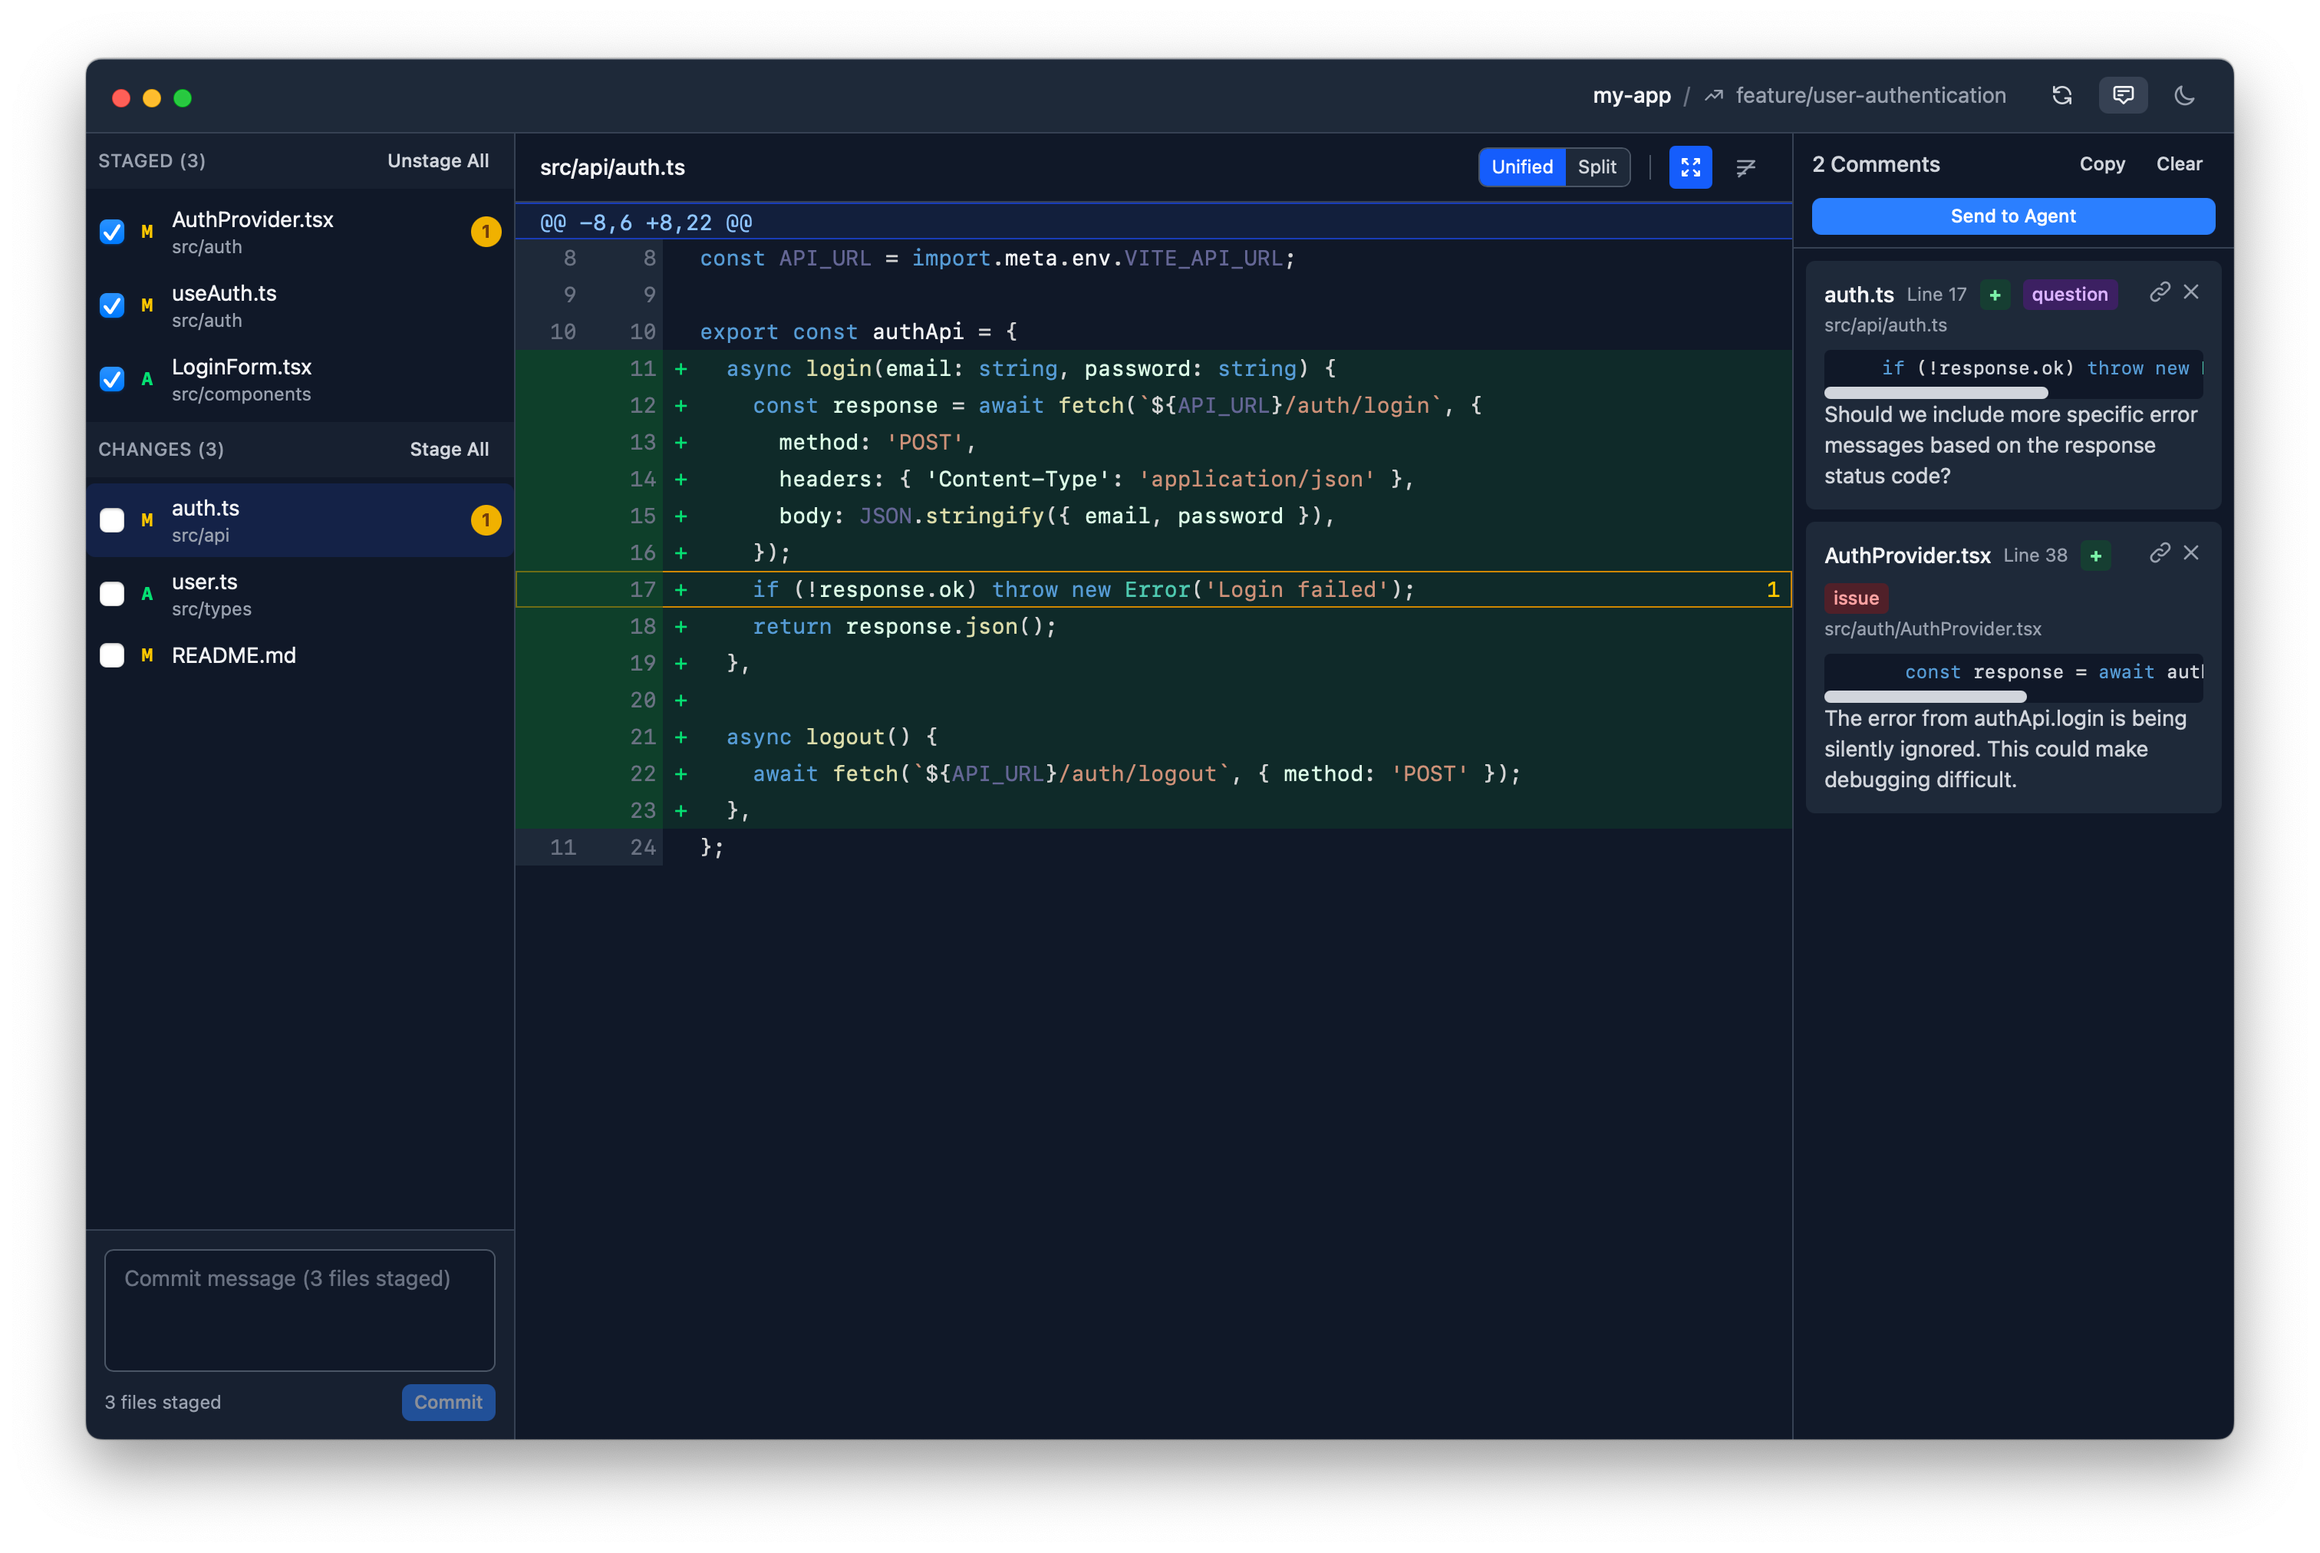
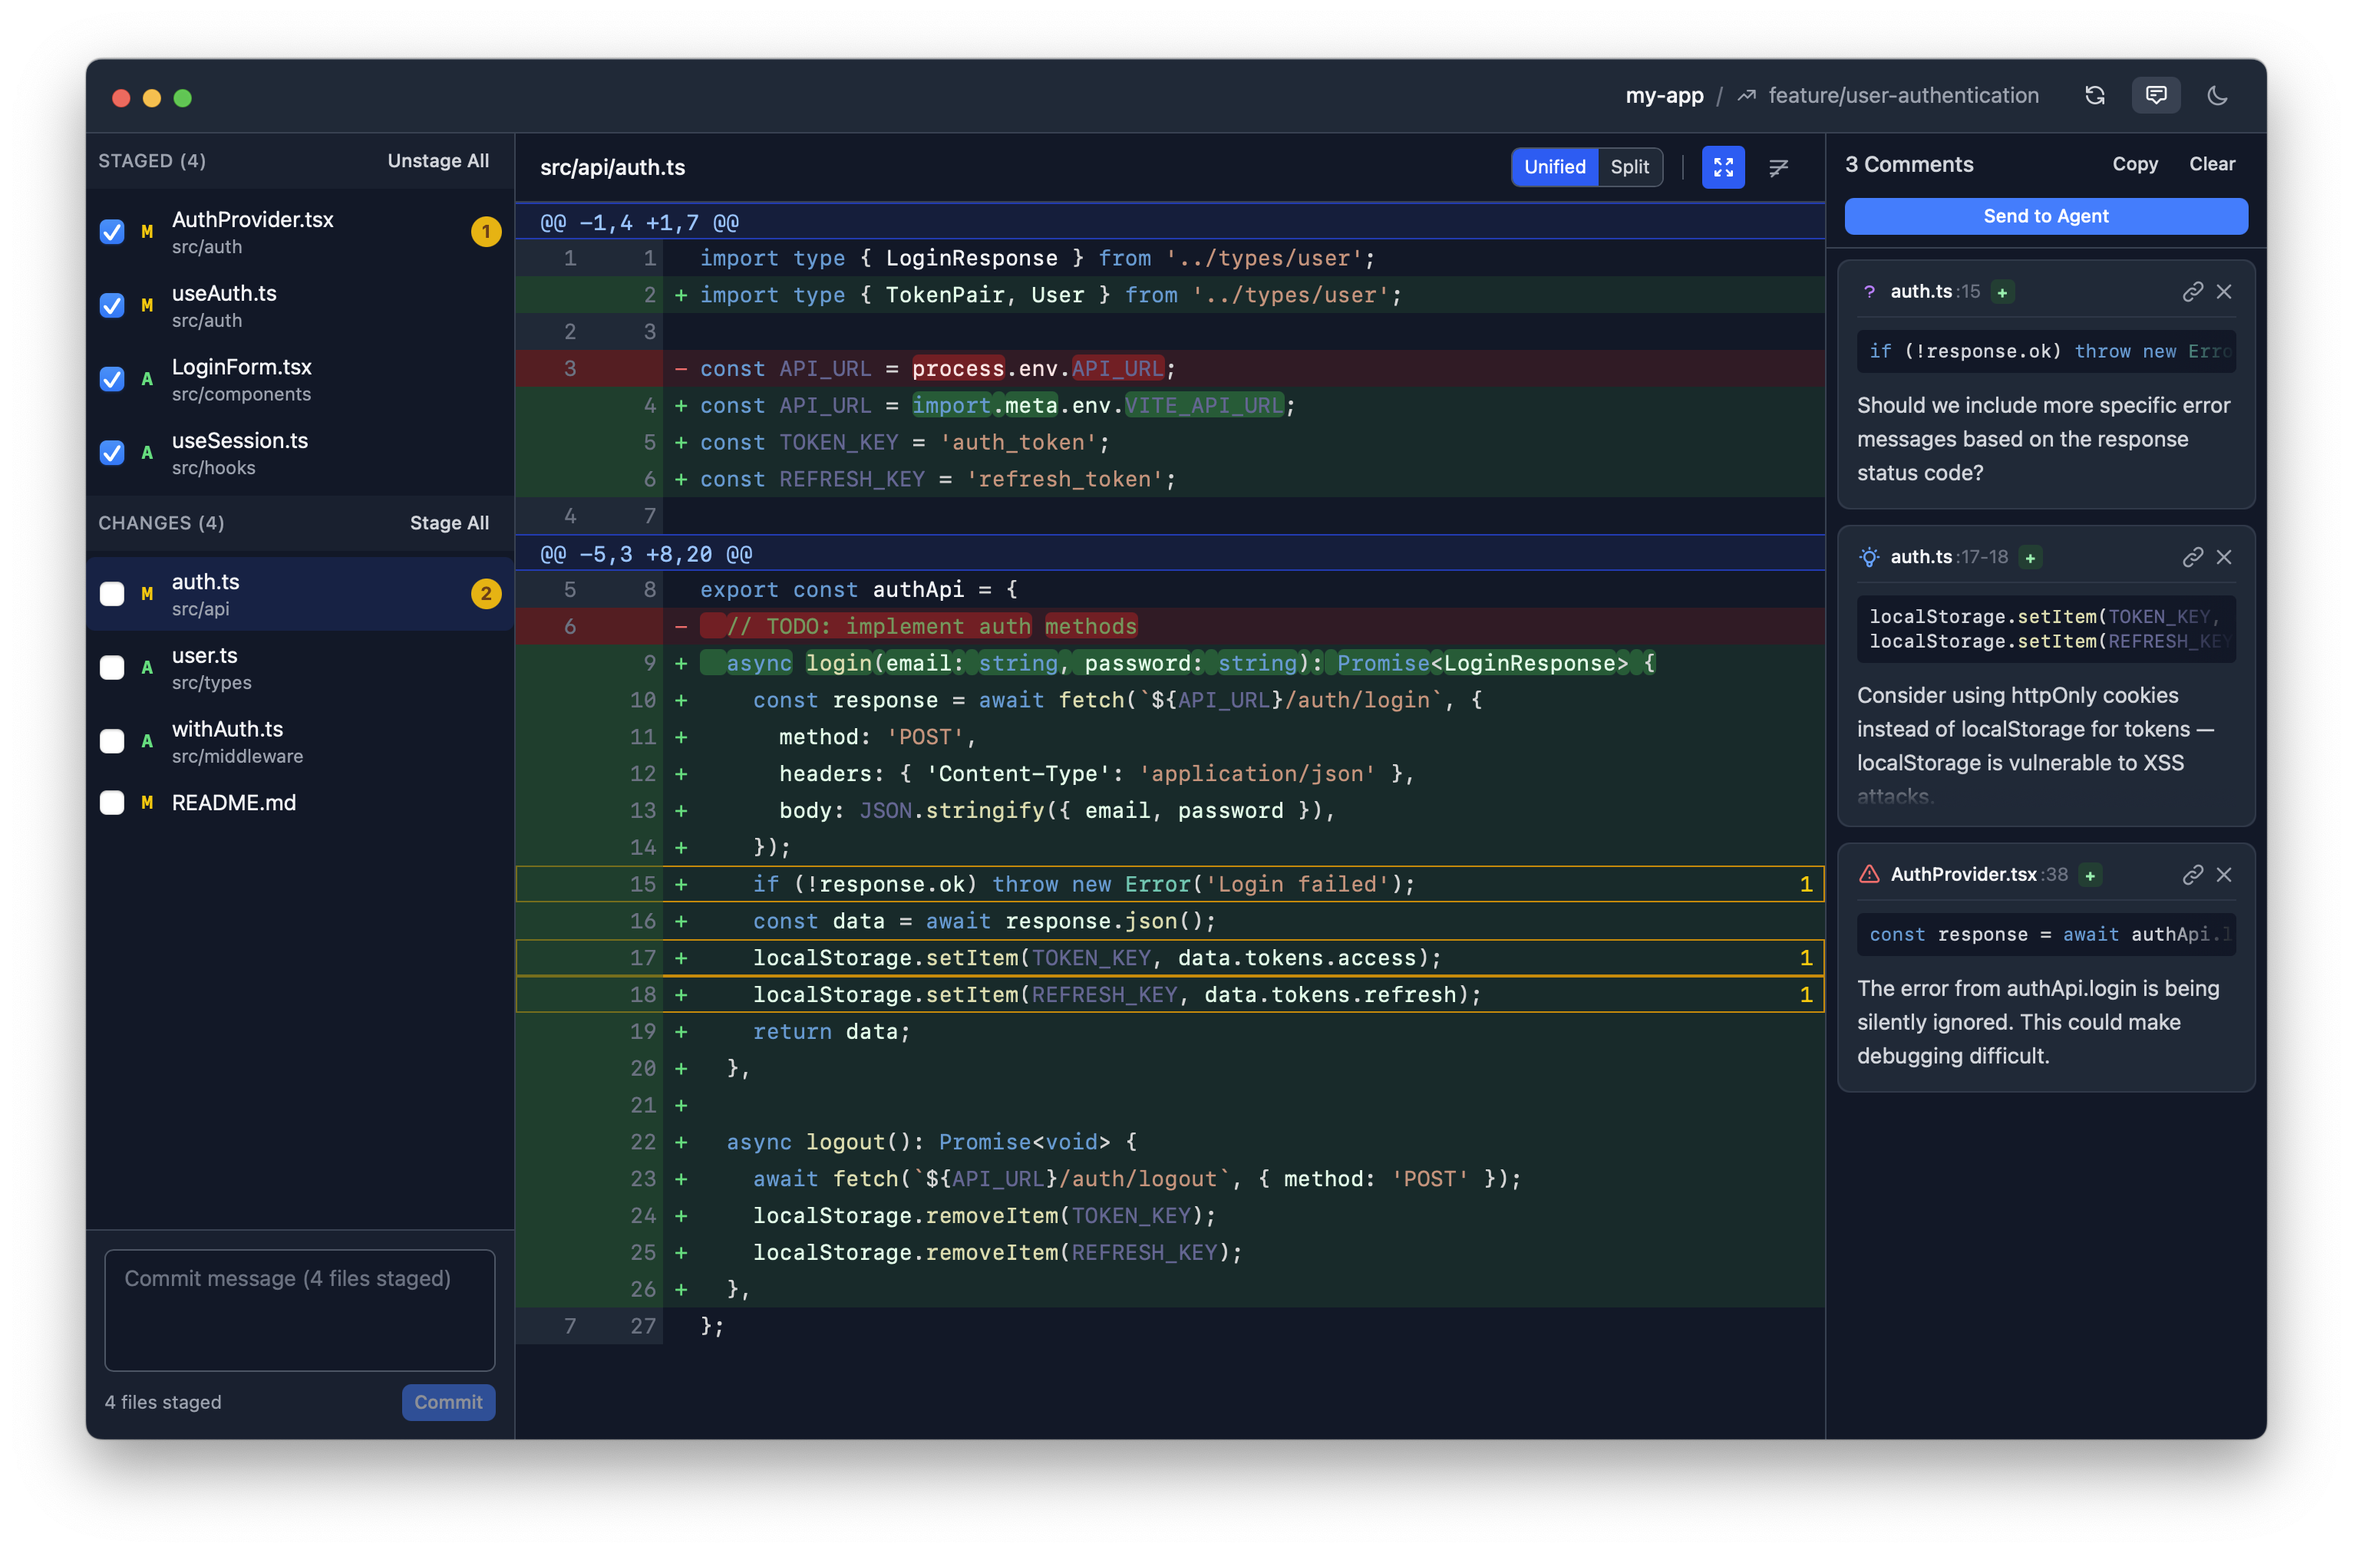
feat(demo): enrich demo data and update screenshots
Expand auth.ts diff to fill viewport without scrolling (2 hunks with
login/logout methods), add 3rd comment (suggestion, multi-line), increase
file list to 8 entries, and replace all screenshots with updated captures.

diff --git a/src/lib/demo/demoData.ts b/src/lib/demo/demoData.ts
@@ -20,16 +20,18 @@ export function createDemoStatus(): RepositoryStatus {
       { path: 'src/auth/AuthProvider.tsx', status: 'modified', staged: true },
       { path: 'src/auth/useAuth.ts', status: 'modified', staged: true },
       { path: 'src/components/LoginForm.tsx', status: 'added', staged: true },
+      { path: 'src/hooks/useSession.ts', status: 'added', staged: true },
       { path: 'src/api/auth.ts', status: 'modified', staged: false },
       { path: 'src/types/user.ts', status: 'added', staged: false },
+      { path: 'src/middleware/withAuth.ts', status: 'added', staged: false },
       { path: 'README.md', status: 'modified', staged: false },
     ],
-    stagedCount: 3,
-    unstagedCount: 3,
+    stagedCount: 4,
+    unstagedCount: 4,
   };
 }
 
-// Sample diff for AuthProvider.tsx
+// Sample diff for the selected file
 export function createDemoFileDiff(file: FileEntry): FileDiff {
   const diffs: Record<string, FileDiff> = {
     'src/auth/AuthProvider.tsx': {
@@ -216,81 +218,148 @@ export function createDemoFileDiff(file: FileEntry): FileDiff {
       status: 'modified',
       hunks: [
         {
-          header: '@@ -8,6 +8,22 @@',
-          oldStart: 8,
-          oldLines: 6,
-          newStart: 8,
-          newLines: 22,
+          header: '@@ -1,4 +1,7 @@',
+          oldStart: 1,
+          oldLines: 4,
+          newStart: 1,
+          newLines: 7,
           lines: [
             {
               lineType: 'context',
-              content: 'const API_URL = import.meta.env.VITE_API_URL;',
-              oldLineNo: 8,
-              newLineNo: 8,
-            },
-            { lineType: 'context', content: '', oldLineNo: 9, newLineNo: 9 },
-            {
-              lineType: 'context',
-              content: 'export const authApi = {',
-              oldLineNo: 10,
-              newLineNo: 10,
+              content: "import type { LoginResponse } from '../types/user';",
+              oldLineNo: 1,
+              newLineNo: 1,
             },
             {
               lineType: 'addition',
-              content: '  async login(email: string, password: string) {',
-              newLineNo: 11,
+              content: "import type { TokenPair, User } from '../types/user';",
+              newLineNo: 2,
+            },
+            { lineType: 'context', content: '', oldLineNo: 2, newLineNo: 3 },
+            {
+              lineType: 'deletion',
+              content: 'const API_URL = process.env.API_URL;',
+              oldLineNo: 3,
+            },
+            {
+              lineType: 'addition',
+              content: 'const API_URL = import.meta.env.VITE_API_URL;',
+              newLineNo: 4,
+            },
+            {
+              lineType: 'addition',
+              content: "const TOKEN_KEY = 'auth_token';",
+              newLineNo: 5,
+            },
+            {
+              lineType: 'addition',
+              content: "const REFRESH_KEY = 'refresh_token';",
+              newLineNo: 6,
+            },
+            { lineType: 'context', content: '', oldLineNo: 4, newLineNo: 7 },
+          ],
+        },
+        {
+          header: '@@ -5,3 +8,20 @@',
+          oldStart: 5,
+          oldLines: 3,
+          newStart: 8,
+          newLines: 20,
+          lines: [
+            {
+              lineType: 'context',
+              content: 'export const authApi = {',
+              oldLineNo: 5,
+              newLineNo: 8,
+            },
+            {
+              lineType: 'deletion',
+              content: '  // TODO: implement auth methods',
+              oldLineNo: 6,
+            },
+            {
+              lineType: 'addition',
+              content:
+                '  async login(email: string, password: string): Promise<LoginResponse> {',
+              newLineNo: 9,
             },
             {
               lineType: 'addition',
               content:
                 '    const response = await fetch(`${API_URL}/auth/login`, {',
-              newLineNo: 12,
+              newLineNo: 10,
             },
             {
               lineType: 'addition',
               content: "      method: 'POST',",
-              newLineNo: 13,
+              newLineNo: 11,
             },
             {
               lineType: 'addition',
               content: "      headers: { 'Content-Type': 'application/json' },",
-              newLineNo: 14,
+              newLineNo: 12,
             },
             {
               lineType: 'addition',
               content: '      body: JSON.stringify({ email, password }),',
-              newLineNo: 15,
+              newLineNo: 13,
             },
-            { lineType: 'addition', content: '    });', newLineNo: 16 },
+            { lineType: 'addition', content: '    });', newLineNo: 14 },
             {
               lineType: 'addition',
               content: "    if (!response.ok) throw new Error('Login failed');",
+              newLineNo: 15,
+            },
+            {
+              lineType: 'addition',
+              content: '    const data = await response.json();',
+              newLineNo: 16,
+            },
+            {
+              lineType: 'addition',
+              content: '    localStorage.setItem(TOKEN_KEY, data.tokens.access);',
               newLineNo: 17,
             },
             {
               lineType: 'addition',
-              content: '    return response.json();',
+              content:
+                '    localStorage.setItem(REFRESH_KEY, data.tokens.refresh);',
               newLineNo: 18,
             },
-            { lineType: 'addition', content: '  },', newLineNo: 19 },
-            { lineType: 'addition', content: '', newLineNo: 20 },
             {
               lineType: 'addition',
-              content: '  async logout() {',
-              newLineNo: 21,
+              content: '    return data;',
+              newLineNo: 19,
+            },
+            { lineType: 'addition', content: '  },', newLineNo: 20 },
+            { lineType: 'addition', content: '', newLineNo: 21 },
+            {
+              lineType: 'addition',
+              content: '  async logout(): Promise<void> {',
+              newLineNo: 22,
             },
             {
               lineType: 'addition',
               content:
                 "    await fetch(`${API_URL}/auth/logout`, { method: 'POST' });",
-              newLineNo: 22,
+              newLineNo: 23,
             },
-            { lineType: 'addition', content: '  },', newLineNo: 23 },
+            {
+              lineType: 'addition',
+              content: '    localStorage.removeItem(TOKEN_KEY);',
+              newLineNo: 24,
+            },
+            {
+              lineType: 'addition',
+              content: '    localStorage.removeItem(REFRESH_KEY);',
+              newLineNo: 25,
+            },
+            { lineType: 'addition', content: '  },', newLineNo: 26 },
             {
               lineType: 'context',
               content: '};',
-              oldLineNo: 11,
-              newLineNo: 24,
+              oldLineNo: 7,
+              newLineNo: 27,
             },
           ],
         },
@@ -415,12 +484,25 @@ export function createDemoComments(): Record<string, Comment[]> {
       {
         id: 'demo-2',
         filePath: 'src/api/auth.ts',
-        startLine: 17,
-        endLine: 17,
+        startLine: 15,
+        endLine: 15,
         content:
           'Should we include more specific error messages based on the response status code?',
         category: 'question',
         codeSnippet: "    if (!response.ok) throw new Error('Login failed');",
+        createdAt: now - 120000,
+        isOld: false,
+      },
+      {
+        id: 'demo-3',
+        filePath: 'src/api/auth.ts',
+        startLine: 17,
+        endLine: 18,
+        content:
+          'Consider using httpOnly cookies instead of localStorage for tokens — localStorage is vulnerable to XSS attacks.',
+        category: 'suggestion',
+        codeSnippet:
+          '    localStorage.setItem(TOKEN_KEY, data.tokens.access);\n    localStorage.setItem(REFRESH_KEY, data.tokens.refresh);',
         createdAt: now - 50000,
         isOld: false,
       },
